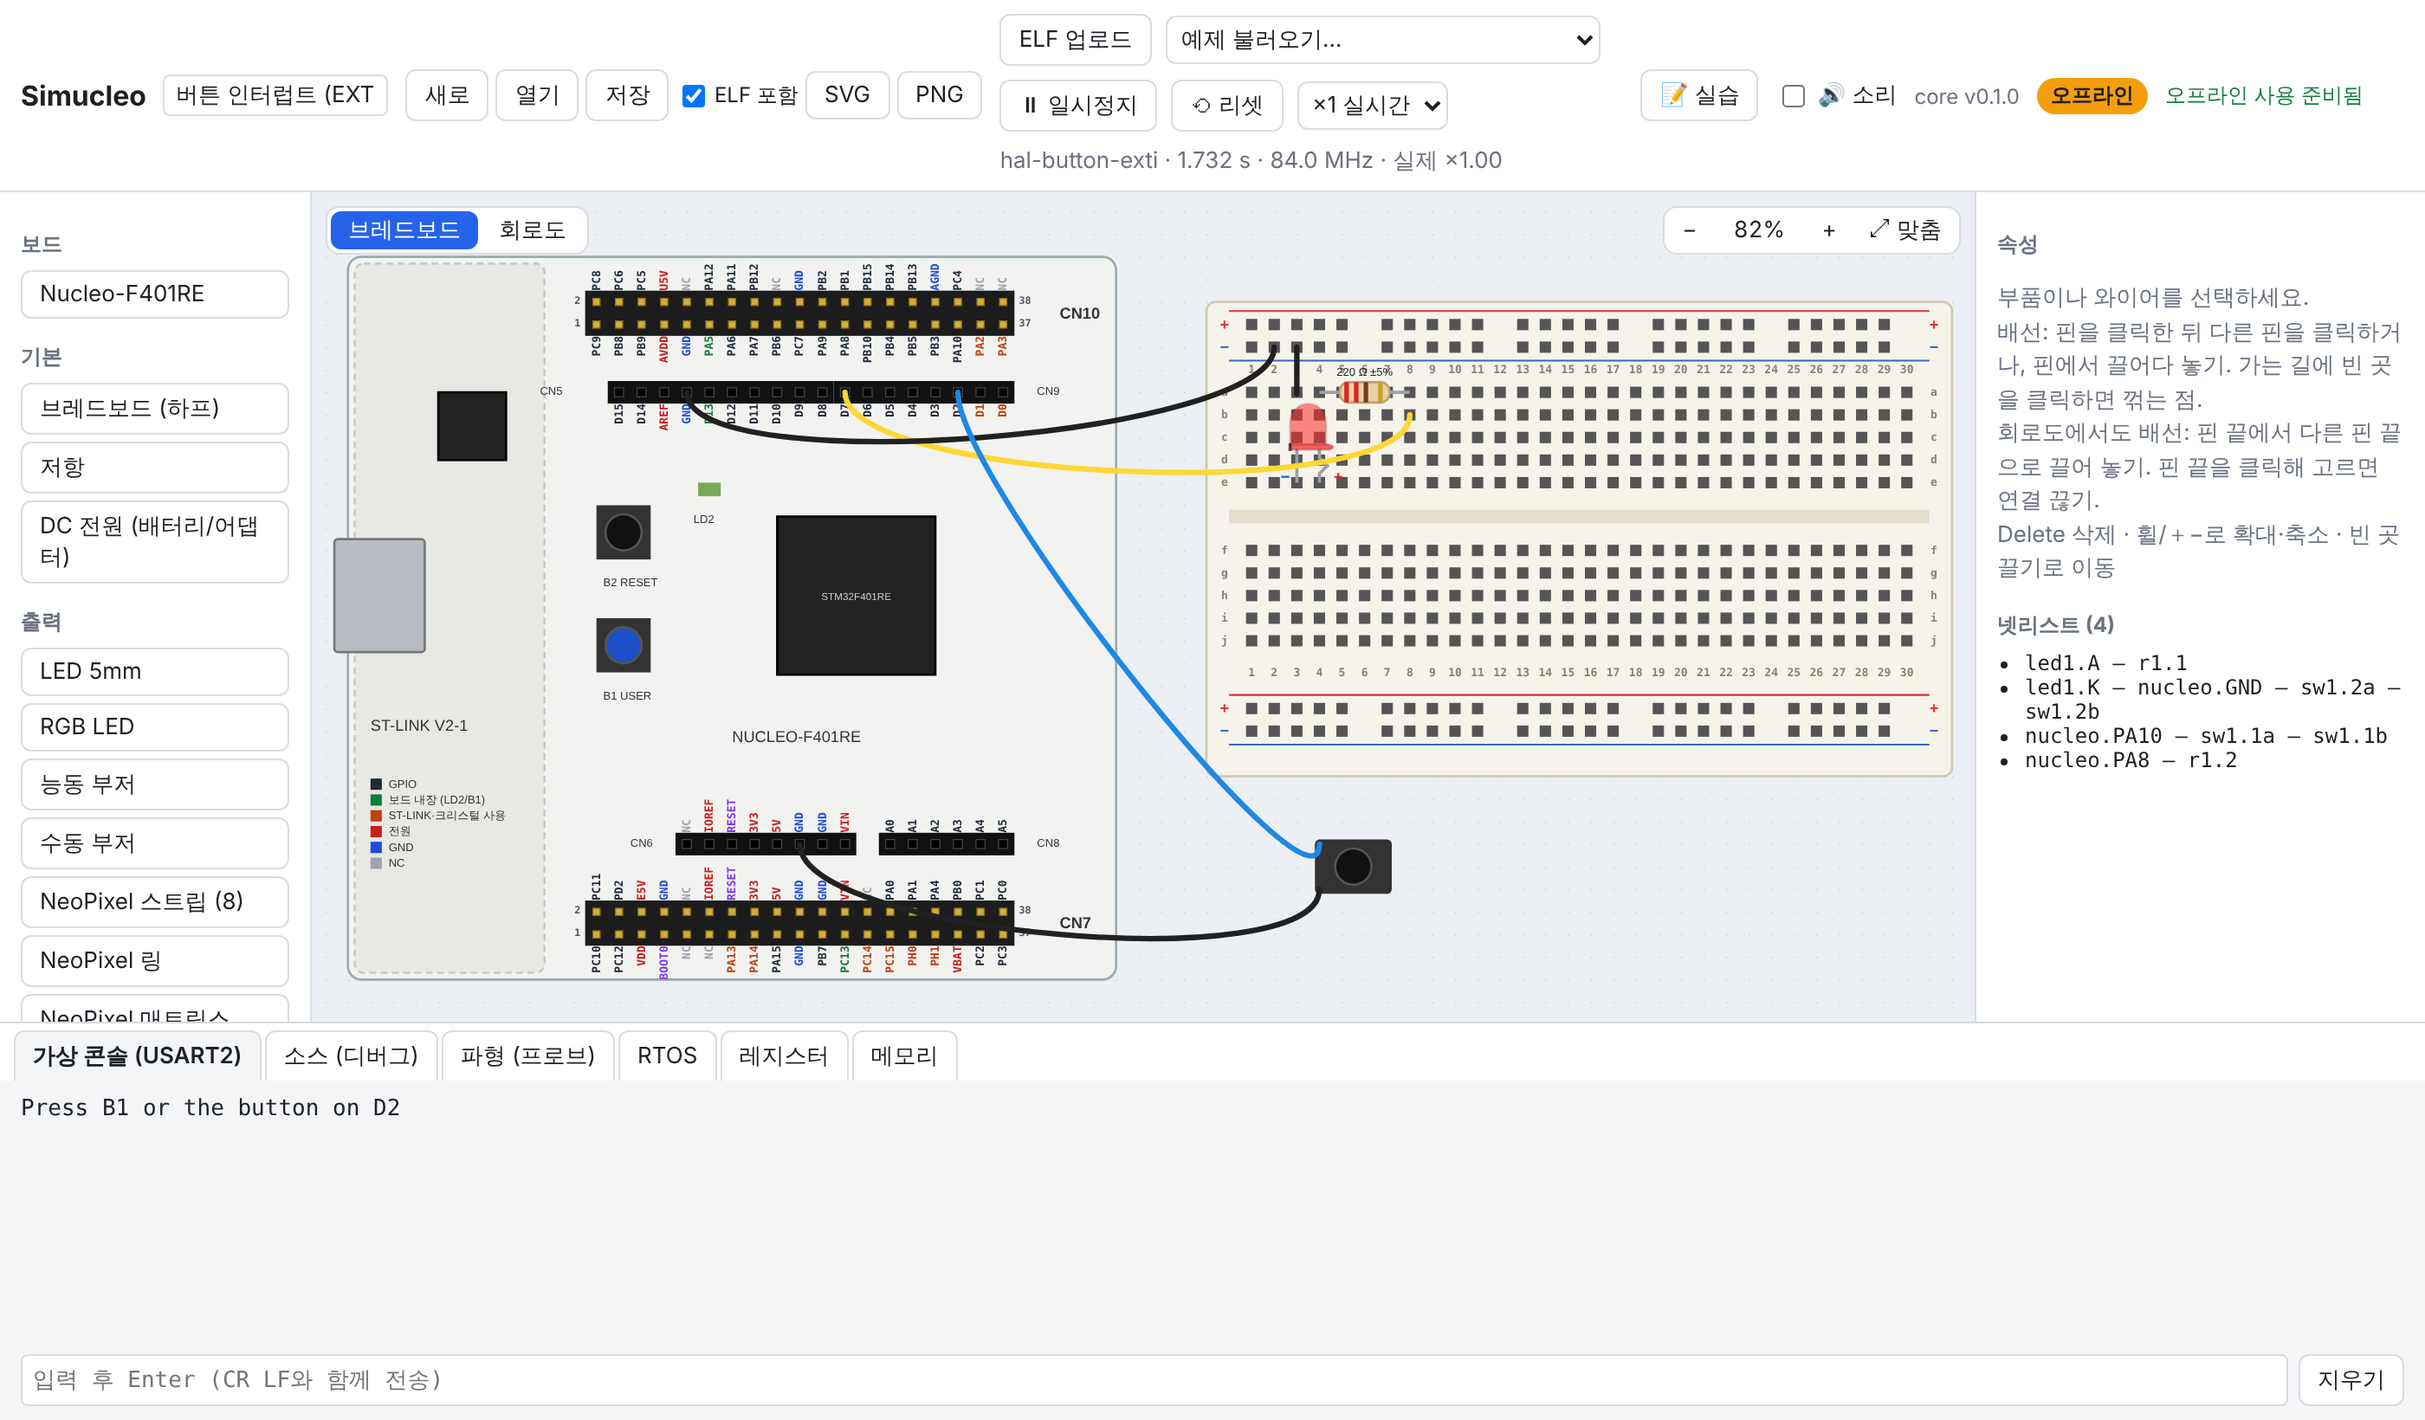
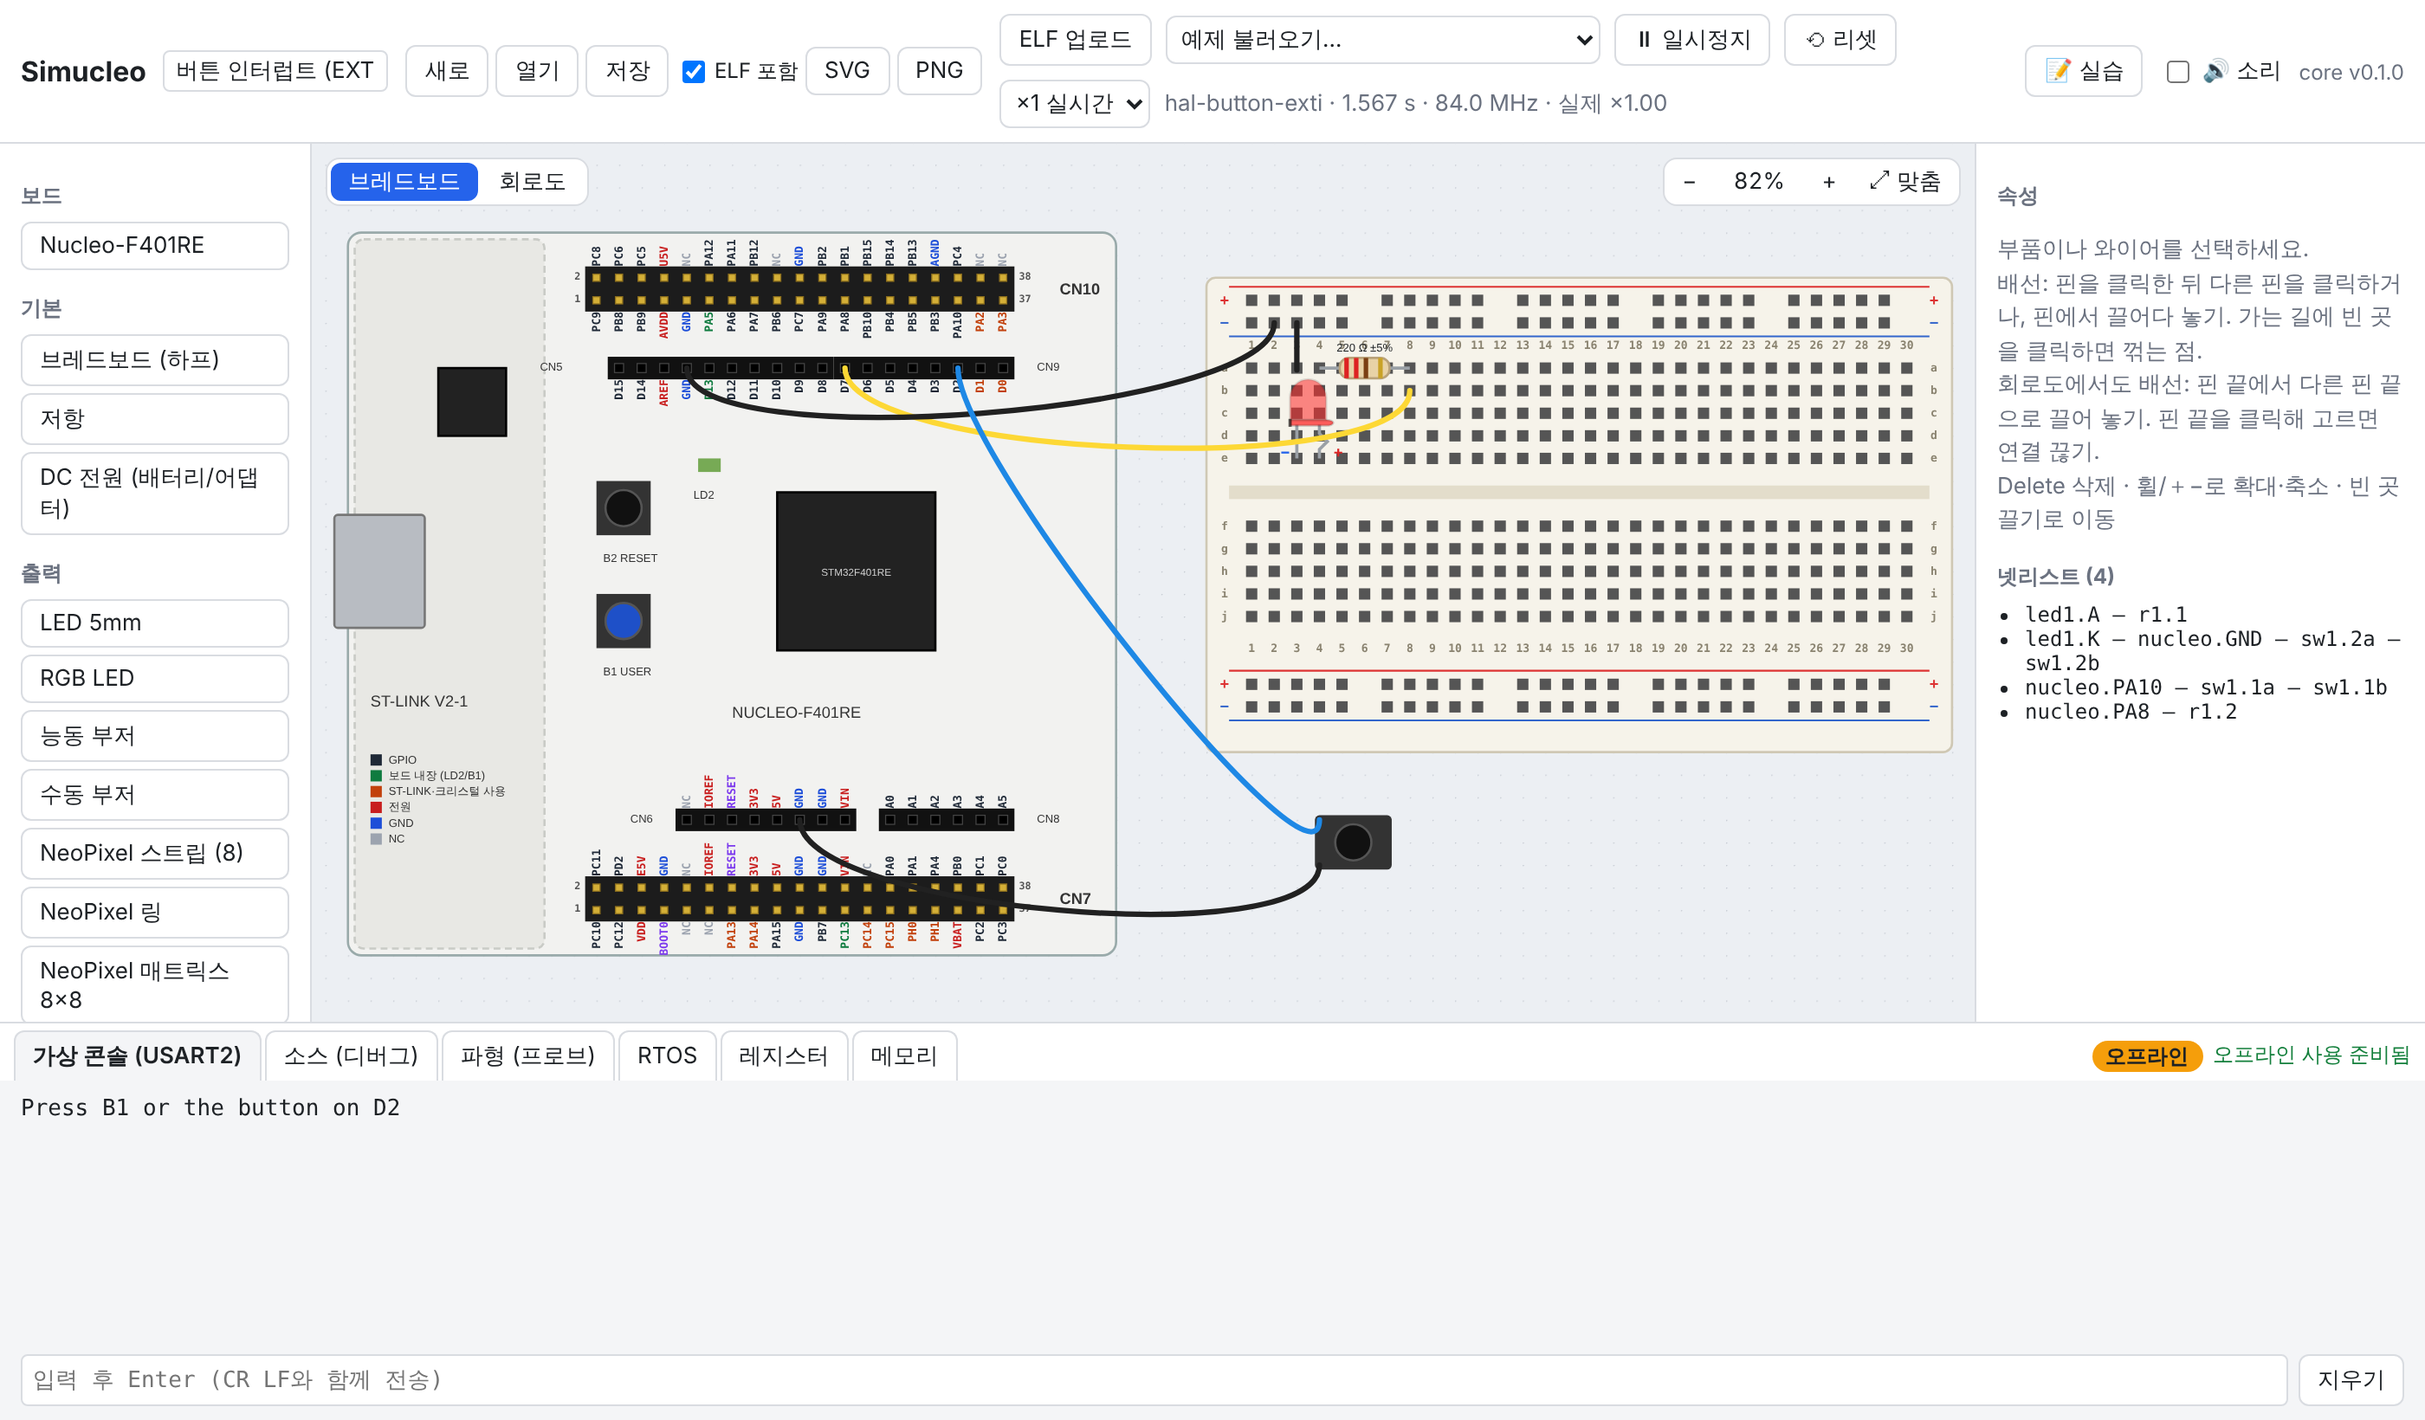
Offline status in the tab row: it never moves the canvas; a race in a live scope test
- The offline badge, the 설치 button and the offline-ready line sit at the
  right end of the bottom panel's tab row, in a slot no taller than the tabs.
  In the toolbar they took a line of their own (the toolbar already wraps
  at 1400 px), which made the canvas shorter, put a pin of the Nucleo under
  the bottom panel and broke the breadboard wiring E2E in CI; the 설치
  button (30 px) then grew that line again under the pointer.
  New E2E: with the badge, the button and the status all shown the canvas
  does not move, the layout is the same as without them, and they cover
  no tab. It fails on the toolbar placement.
- m27 live moving average: read the start time before the probe is added,
  and a 3.5 s window, so a busy machine can neither fill the window before
  the 'unknown' checks nor end it early in the elapsed-time check.
- Docs and the M29 screenshot follow the new place.

Claude-Session: https://claude.ai/code/session_01UhgPm9977T5HrBfVKwY4mH

diff --git a/web/e2e/m29.spec.ts b/web/e2e/m29.spec.ts
@@ -163,3 +163,51 @@ test("a new version waits for the banner; a running simulation is asked first", 
     server.close();
   }
 });
+
+// The offline badge, the 설치 button and the status line come and go while
+// people work; the canvas must stay where it is (a drag in progress would
+// otherwise land on the wrong hole).
+test("the offline items never move the canvas", async ({ page, context }) => {
+  await page.goto("/");
+  await expect(status(page)).toContainText("예제를");
+  const canvas = page.locator("main");
+  const before = await canvas.boundingBox();
+  // Everything at once: the browser offers to install, the network goes,
+  // and the status line shows whatever state it is in.
+  await page.evaluate(() => {
+    const e = new Event("beforeinstallprompt") as Event & { prompt?: () => Promise<void>; userChoice?: Promise<unknown> };
+    e.prompt = async () => {};
+    e.userChoice = new Promise(() => {});
+    window.dispatchEvent(e);
+  });
+  await context.setOffline(true);
+  await expect(page.getByTestId("offline-badge")).toBeVisible();
+  await expect(page.getByRole("button", { name: "⬇ 설치" })).toBeVisible();
+  await expect(offlineStatus(page)).toBeVisible();
+  expect(await canvas.boundingBox()).toEqual(before);
+  await context.setOffline(false);
+  await expect(page.getByTestId("offline-badge")).toHaveCount(0);
+  expect(await canvas.boundingBox()).toEqual(before);
+  // They take no room of their own (the toolbar is as tall as without
+  // them) and cover none of the toolbar's other items.
+  const layout = await page.evaluate(() => {
+    const slot = document.querySelector<HTMLElement>(".pwa-slot")!;
+    const r = slot.getBoundingClientRect();
+    const overlaps = [...slot.parentElement!.children]
+      .filter((c) => c !== slot)
+      .map((c) => c.getBoundingClientRect())
+      .filter((c) => c.left < r.right && r.left < c.right && c.top < r.bottom && r.top < c.bottom).length;
+    const main = () => {
+      const m = document.querySelector("main")!.getBoundingClientRect();
+      const body = document.querySelector(".tab-body")!.getBoundingClientRect();
+      return `${m.top} ${m.height} ${body.top}`;
+    };
+    const withSlot = main();
+    slot.style.display = "none";
+    const without = main();
+    slot.style.display = "";
+    return { withSlot, without, overlaps };
+  });
+  expect(layout.withSlot).toBe(layout.without);
+  expect(layout.overlaps).toBe(0);
+});

diff --git a/web/e2e/m27.spec.ts b/web/e2e/m27.spec.ts
@@ -312,15 +312,17 @@ test("live: a new probe's moving average is unknown until its window holds recor
   await runButton(page).click();
   await expect(consoleOut(page)).toContainText("pot 2047", { timeout: 5000 });
   await openScope(page);
-  // A math channel on a channel probed just now: a 1.5 s average needs 1.5 s of its history.
+  // A math channel on a channel probed just now: a 3.5 s average needs 3.5 s of its history
+  // (long, so that the steps below are done well before it is full, even on a busy machine).
   await page.getByRole("button", { name: "수학 채널 추가" }).click();
+  // Read before the probe is added: the window can be full no sooner than 3.5 s after this.
+  const t0 = Number(await plot(page).getAttribute("data-now-ms"));
   await page.getByLabel("아날로그 채널 추가").selectOption("pot.W");
   await page.getByLabel("M1 연산").selectOption("avg");
   await page.getByLabel("M1 소스 A").selectOption("V(pot.W)");
-  await page.getByLabel("M1 평균 창 (µs)").fill("1500000");
+  await page.getByLabel("M1 평균 창 (µs)").fill("3500000");
   await page.getByRole("button", { name: "시간 + 스펙트럼" }).click();
   await page.getByLabel("스펙트럼 소스").selectOption("M1");
-  const t0 = Number(await plot(page).getAttribute("data-now-ms"));
   // Unknown: no measurements, the whole row hatched, no spectrum.
   const row = page.getByTestId("analog-M1");
   await expect(page.getByTestId("analog-pot.W")).toHaveAttribute("data-mean", /\d/);
@@ -329,7 +331,7 @@ test("live: a new probe's moving average is unknown until its window holds recor
   await expect(page.getByTestId("fft-info")).toHaveCount(0);
   // Once the window lies in the recorded part: the wiper's 1.65 V.
   await expect.poll(async () => Number((await row.getAttribute("data-mean")) ?? NaN), { timeout: 20000 }).toBeCloseTo(1.65, 1);
-  expect(Number(await plot(page).getAttribute("data-now-ms")) - t0).toBeGreaterThan(1500);
+  expect(Number(await plot(page).getAttribute("data-now-ms")) - t0).toBeGreaterThan(3500);
   await expect(page.getByTestId("fft-info")).toHaveCount(1);
   // Longer than the history kept (4 s): never known.
   await page.getByLabel("M1 평균 창 (µs)").fill("5000000");

diff --git a/web/src/styles.css b/web/src/styles.css
@@ -119,7 +119,12 @@ main { grid-area: main; min-width: 0; min-height: 0; }
 .run-controls { display: flex; gap: 8px; align-items: center; flex-wrap: wrap; flex: 1; }
 .run-controls select { font: inherit; font-size: 13px; padding: 4px; border-radius: 6px; border: 1px solid var(--border); background: var(--panel); color: var(--text); }
 .version { color: var(--muted); font-size: 12px; }
-.offline-status { flex: none; width: 11.5em; white-space: nowrap; overflow: hidden; text-overflow: ellipsis; font-variant-numeric: tabular-nums; }
+.pwa-slot { margin-left: auto; flex: 0 1 auto; min-width: 0; height: 24px; align-self: center; display: inline-flex; justify-content: flex-end; align-items: center; gap: 6px; overflow: hidden; white-space: nowrap; font-size: 12px; }
+.pwa-slot .install-btn { padding: 0 8px; height: 22px; font-size: 12px; line-height: 20px; }
+.pwa-slot .offline-badge { padding: 0 8px; line-height: 18px; }
+.pwa-slot > * { flex: none; }
+.pwa-slot > .offline-status { flex: 0 1 11.5em; min-width: 0; text-align: right; }
+.offline-status { white-space: nowrap; overflow: hidden; text-overflow: ellipsis; font-variant-numeric: tabular-nums; }
 .offline-status[data-state="ready"] { color: #15803d; }
 .offline-status[data-state="error"] { color: #b91c1c; }
 .offline-badge { font-size: 12px; font-weight: 600; padding: 2px 8px; border-radius: 999px; background: #f59e0b; color: #1d2125; }

diff --git a/web/src/PwaUi.tsx b/web/src/PwaUi.tsx
@@ -21,15 +21,17 @@ export function startPwa() {
 const usePwa = () => useSyncExternalStore(pwa.subscribe, pwa.state);
 
 /**
- * Toolbar items: offline badge, install button, offline-ready status. The
- * status has a fixed width (styles.css) so that its changing text never
- * re-wraps the toolbar under the user's pointer.
+ * Offline badge, install button, offline-ready status, at the right end of
+ * the bottom panel's tab row: a slot that is always there and no taller than
+ * the tabs (styles.css), so none of them appearing, going or changing its
+ * text ever changes the layout — above all never the toolbar, whose height
+ * moves the canvas under the user's pointer.
  */
 export function PwaStatus() {
   const s = usePwa();
   const o = s.offline;
   return (
-    <>
+    <span className="pwa-slot" data-testid="pwa-slot">
       {!s.online && (
         <span className="offline-badge" data-testid="offline-badge" title="네트워크에 연결되어 있지 않습니다. 캐시된 앱으로 실행 중입니다.">
           오프라인
@@ -51,7 +53,7 @@ export function PwaStatus() {
                 : "오프라인 준비 중…"}
         </span>
       )}
-    </>
+    </span>
   );
 }
 

diff --git a/web/src/run/BottomPanel.tsx b/web/src/run/BottomPanel.tsx
@@ -1,4 +1,4 @@
-import { useEffect, useRef, useState } from "react";
+import { useEffect, useRef, useState, type ReactNode } from "react";
 import { btLinked, type Runner } from "../sim/useRunner";
 import { Waveform } from "./Waveform";
 import type { ScopeSettings } from "./scopeSettings";
@@ -16,6 +16,7 @@ export function BottomPanel({
   scope,
   scopeSeq,
   onScope,
+  status,
 }: {
   runner: Runner;
   parts?: { id: string; kind: string }[];
@@ -23,6 +24,8 @@ export function BottomPanel({
   scope?: ScopeSettings;
   scopeSeq?: number;
   onScope?: (s: ScopeSettings) => void;
+  /** Items at the right end of the tab row (the offline status, M29). */
+  status?: ReactNode;
 }) {
   const [tab, setTab] = useState<Tab>("console");
   // The waveform view keeps its trigger and capture once opened.
@@ -58,6 +61,7 @@ export function BottomPanel({
             {label}
           </button>
         ))}
+        {status}
       </nav>
       <div className="tab-body">
         {tab === "console" && <Console runner={runner} />}

diff --git a/web/src/App.tsx b/web/src/App.tsx
@@ -607,7 +607,6 @@ export function App() {
         <span className="version" title="시뮬레이터 코어 버전">
           {simError ? `WASM 로드 실패: ${simError}` : sim ? `core v${sim.version}` : "WASM 로딩 중…"}
         </span>
-        <PwaStatus />
       </header>
       <UpdateBanner running={runner.running} />
 
@@ -723,7 +722,14 @@ export function App() {
         </div>
       </main>
 
-      <BottomPanel runner={runner} parts={project.parts} scope={project.scope} scopeSeq={scopeSeq} onScope={onScope} />
+      <BottomPanel
+        runner={runner}
+        parts={project.parts}
+        scope={project.scope}
+        scopeSeq={scopeSeq}
+        onScope={onScope}
+        status={<PwaStatus />}
+      />
 
       {lessonOpen && (
         <LessonPanel

diff --git a/docs/roadmap.md b/docs/roadmap.md
@@ -62,7 +62,7 @@
 
 ### M29 완료 (오프라인 설치형 앱)
 
-![오프라인에서 연 Simucleo. 툴바 오른쪽에 주황색 "오프라인" 배지와 초록 "오프라인 사용 준비됨"이 보이고, 캐시에서 연 hal-button-exti 예제가 실행 중이다](images/m29-offline.png)
+![오프라인에서 연 Simucleo. 아래 탭 줄 오른쪽에 주황색 "오프라인" 배지와 초록 "오프라인 사용 준비됨"이 보이고, 캐시에서 연 hal-button-exti 예제가 실행 중이다](images/m29-offline.png)
 
 인터넷이 자주 끊기는 교실에서 한 번 연 뒤에는 오프라인으로 쓰게 했다. 서버는 그대로 없다. 사용법은
 [offline.md](offline.md). 모두 웹 쪽이고 Rust 코어는 바뀌지 않았다. 새 의존성도 없다(vite-plugin-pwa·workbox 대신
@@ -88,7 +88,7 @@
   `SKIP_WAITING`을 보내고 새 버전이 페이지를 맡은 뒤(`controllerchange`) 그 탭만 새로 고친다. 시뮬레이션이 실행 중이면 먼저
   묻고, 아니라고 하면 아무것도 하지 않는다. 다른 탭에서 바뀐 경우에는 배너만 보이고 스스로 새로 고치지 않는다. 다시
   연결되면(`online`) 새 버전을 찾아본다. 등록은 프로덕션 빌드에서만(`import.meta.env.PROD`), `updateViaCache: "none"`
-- [x] **UI**(`web/src/pwa.ts`, `PwaUi.tsx`): 툴바에 `beforeinstallprompt`가 오면 **⬇ 설치**, `navigator.onLine`과
+- [x] **UI**(`web/src/pwa.ts`, `PwaUi.tsx`): 아래 패널 탭 줄 오른쪽(툴바 높이가 바뀌어 캔버스가 움직이지 않도록)에 `beforeinstallprompt`가 오면 **⬇ 설치**, `navigator.onLine`과
   online/offline 이벤트로 주황 **오프라인** 배지, 코어 버전 옆에 **오프라인 준비 중 n%** → 서비스 워커가 목록이 모두
   캐시에 있다고 답하면(`GET_STATUS` → `STATUS`) 초록 **오프라인 사용 준비됨**(툴팁에 캐시 버전)
 - [x] 테스트: 웹 단위 15개(`web/test/m29.test.ts`, 전체 129개: 목록에 index.html·WASM·모든 예제 ELF와 배선·예제 소스가 있고

diff --git a/README.md b/README.md
@@ -9,7 +9,7 @@
 ![PWM으로 RGB LED와 LD2 밝기 제어](docs/images/m3-pwm-rgb.png)
 
 > **M29: 오프라인 설치형 앱.** 한 번 열어 두면 인터넷 없이도 쓸 수 있다. 서비스 워커가 시뮬레이터(WASM), 화면,
-> 예제 펌웨어와 배선, 실습을 모두 캐시해 오프라인에서 새로 고쳐도 앱이 열리고 예제를 실행하고 채점한다. 툴바의
+> 예제 펌웨어와 배선, 실습을 모두 캐시해 오프라인에서 새로 고쳐도 앱이 열리고 예제를 실행하고 채점한다. 아래 탭 줄의
 > **⬇ 설치**로 앱처럼 설치하고, 끊기면 **오프라인** 배지, 준비되면 **오프라인 사용 준비됨**이 보인다. 새 버전은
 > **새 버전이 있습니다 — 새로 고침** 배너로 알리고, 시뮬레이션 중이면 묻고 나서 바꾼다([오프라인에서 쓰기](docs/offline.md)).
 >
